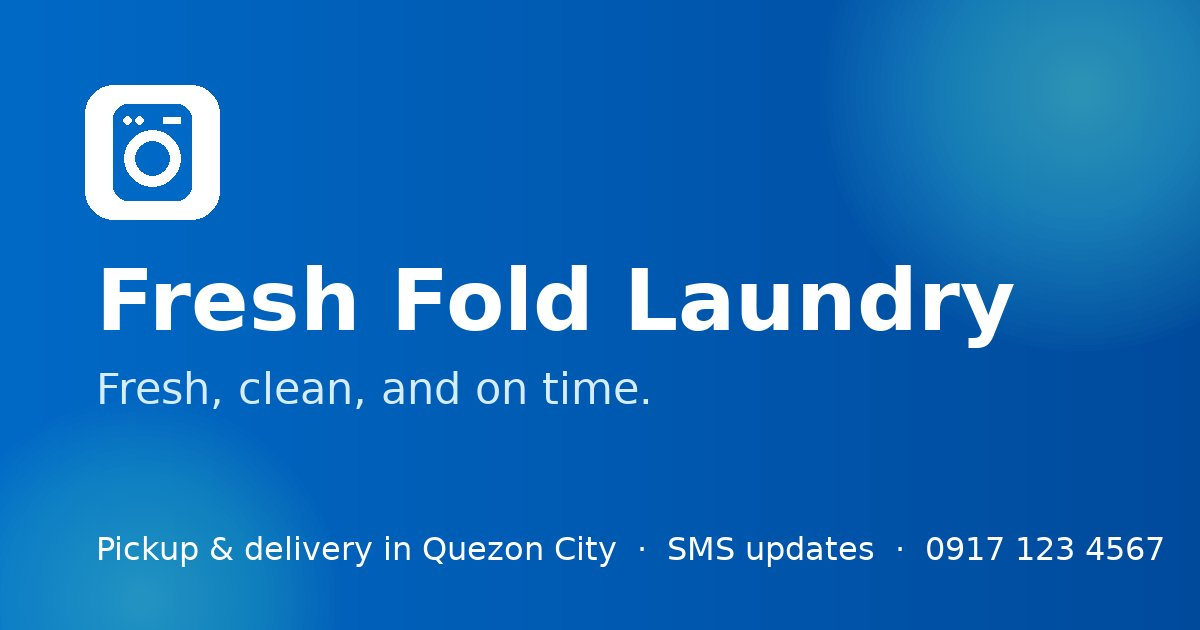
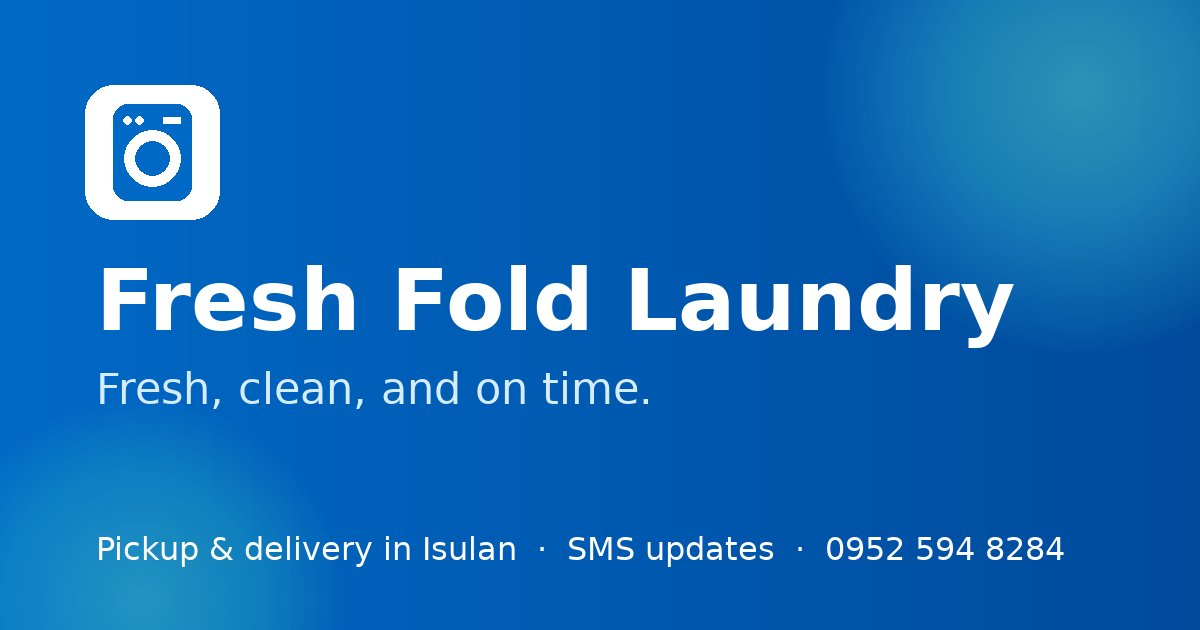
update

Changed region(s): [[0.3392, 0.8444, 0.9867, 0.9048]]

diff --git a/SystemLaundry/app/Models/Setting.php b/SystemLaundry/app/Models/Setting.php
@@ -28,8 +28,8 @@ class Setting extends Model
      */
     public const DEFAULTS = [
         'shop_name' => 'Fresh Fold Laundry',
-        'shop_address' => '123 Rizal Street, Barangay Poblacion',
-        'shop_phone' => '09171234567',
+        'shop_address' => 'Canja Street, Barangay Kalawag 1',
+        'shop_phone' => '09525948284',
         'shop_email' => 'hello@freshfold.test',
         'currency_code' => 'PHP',
         'currency_symbol' => '₱',
@@ -43,16 +43,16 @@ class Setting extends Model
 
         // Public website (docs/public-site/02-database.md). Sample values — edit in Settings.
         'shop_tagline' => 'Fresh, clean, and on time.',
-        'shop_city' => 'Quezon City, Metro Manila',
+        'shop_city' => 'Isulan, Sultan Kudarat',
         'business_hours' => 'Mon–Sat 7:00 AM – 8:00 PM · Sun 8:00 AM – 5:00 PM',
         // Same hours in schema.org format for Google (comma-separated).
         'opening_hours_schema' => 'Mo-Sa 07:00-20:00, Su 08:00-17:00',
-        'facebook_url' => 'https://www.facebook.com/freshfoldlaundry',
-        'messenger_url' => 'https://m.me/freshfoldlaundry',
+        'facebook_url' => 'https://www.facebook.com/sheila.may.cabugason',
+        'messenger_url' => 'https://m.me/sheila.may.cabugason',
         'instagram_url' => '',
         // Google Maps "Embed a map" src URL; leave empty to hide the map.
         'map_embed_url' => '',
-        'map_link' => 'https://maps.google.com/?q=Fresh+Fold+Laundry',
+        'map_link' => 'https://maps.google.com/?q=Canja+Street,+Kalawag+1,+Isulan,+Sultan+Kudarat',
         'about_text' => 'Fresh Fold Laundry started as a two-machine shop for busy neighbors who needed clean clothes without losing their weekend. Today we wash, dry, fold and press for students, families and working professionals — with every order tagged, tracked and texted to you, so nothing gets lost and you always know when your laundry is ready.',
         'founded_year' => '2019',
         'service_area' => 'Pickup and delivery within 5 km of the shop',
